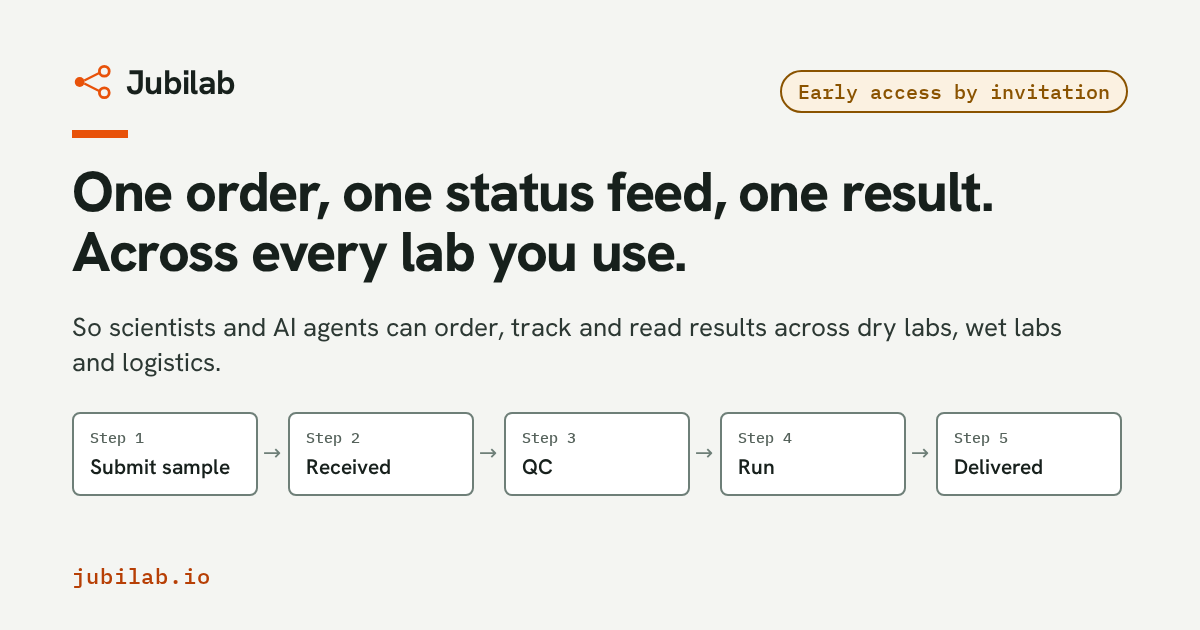
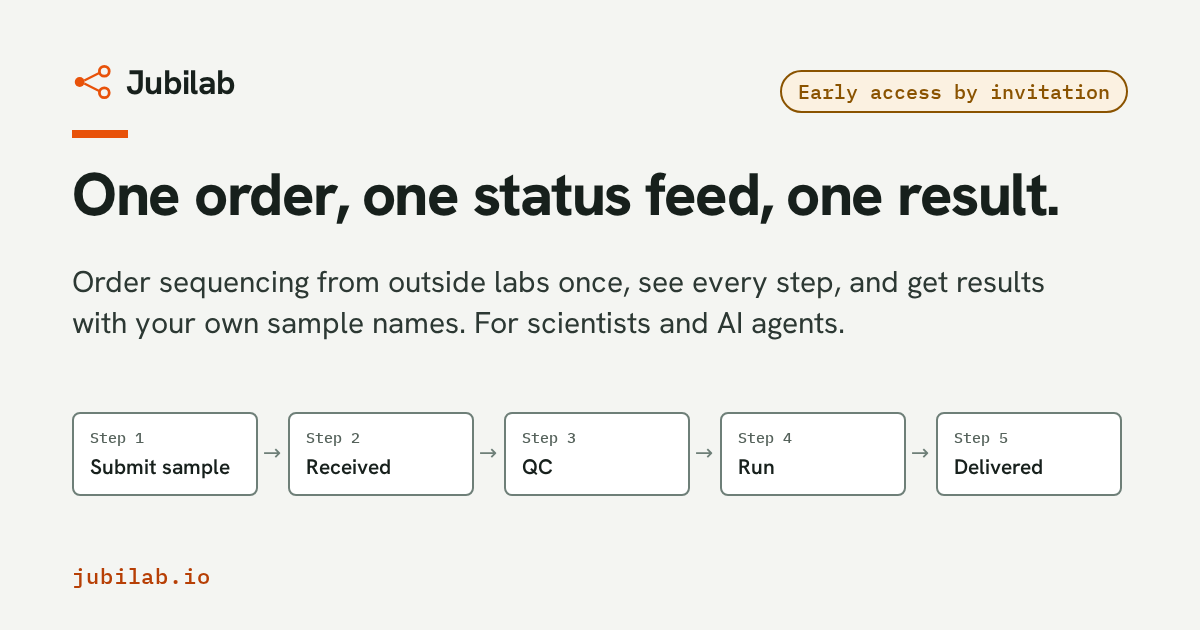
feat(site): plainer first screen, Billy BioTech line, investor link near the CTA, drop presumptuous lab sentence (T-048 round 2)

Changed region(s): [[0.0617, 0.2714, 0.8942, 0.6032]]

diff --git a/index.html b/index.html
@@ -5,23 +5,23 @@
 <meta charset="utf-8">
 <meta name="viewport" content="width=device-width, initial-scale=1">
 <title>Jubilab: one order, one status feed, one result</title>
-<meta name="description" content="Early access by invitation. One order, one status feed and one result across every lab you use, for scientists and AI agents. For UK research teams and labs.">
+<meta name="description" content="Early access by invitation. Order sequencing from outside labs once, see every step and get results with your own sample names. For UK research teams and labs.">
 <meta name="theme-color" content="#f4f5f2">
 <link rel="canonical" href="https://jubilab.io/">
 <meta property="og:type" content="website">
 <meta property="og:site_name" content="Jubilab">
 <meta property="og:title" content="Jubilab: one order, one status feed, one result">
-<meta property="og:description" content="Early access by invitation. One order, one status feed and one result across every lab you use, for scientists and AI agents. For UK research teams and labs.">
+<meta property="og:description" content="Early access by invitation. Order sequencing from outside labs once, see every step and get results with your own sample names. For UK research teams and labs.">
 <meta property="og:url" content="https://jubilab.io/">
 <meta property="og:image" content="https://jubilab.io/assets/og/jubilab-og.png">
 <meta property="og:image:width" content="1200">
 <meta property="og:image:height" content="630">
-<meta property="og:image:alt" content="Jubilab: one order, one status feed, one result across every lab you use. An order moves from sample submission through received, QC and run to delivered. Marked: early access by invitation, nothing released yet.">
+<meta property="og:image:alt" content="Jubilab: one order, one status feed, one result. An order moves from sample submission through received, QC and run to delivered. Marked: early access by invitation, nothing released yet.">
 <meta name="twitter:card" content="summary_large_image">
 <meta name="twitter:title" content="Jubilab: one order, one status feed, one result">
-<meta name="twitter:description" content="Early access by invitation. One order, one status feed and one result across every lab you use, for scientists and AI agents. For UK research teams and labs.">
+<meta name="twitter:description" content="Early access by invitation. Order sequencing from outside labs once, see every step and get results with your own sample names. For UK research teams and labs.">
 <meta name="twitter:image" content="https://jubilab.io/assets/og/jubilab-og.png">
-<meta name="twitter:image:alt" content="Jubilab: one order, one status feed, one result across every lab you use. An order moves from sample submission through received, QC and run to delivered. Marked: early access by invitation, nothing released yet.">
+<meta name="twitter:image:alt" content="Jubilab: one order, one status feed, one result. An order moves from sample submission through received, QC and run to delivered. Marked: early access by invitation, nothing released yet.">
 <link rel="icon" href="assets/favicon.svg" type="image/svg+xml">
 <link rel="preload" href="assets/fonts/hanken-grotesk-latin-wght-normal.woff2" as="font" type="font/woff2" crossorigin>
 <link rel="preload" href="assets/fonts/ibm-plex-mono-latin-400-normal.woff2" as="font" type="font/woff2" crossorigin>
@@ -106,13 +106,14 @@
 <section class="hero" aria-labelledby="h1">
   <div class="wrap hero-grid">
     <div class="hero-text">
-      <h1 id="h1">One order, one status feed, one result. Across every lab you use.</h1>
-      <p class="hero-sub">So scientists and AI agents can order, track and read results across dry labs, wet labs and logistics.</p>
-      <p class="hero-lede">For research teams and startups that send samples to outside labs, and the labs that receive them. Starting with genetics, UK first.</p>
+      <h1 id="h1">One order, one status feed, one result.</h1>
+      <p class="hero-sub">Order sequencing from outside labs once, see every step, and get results with your own sample names. For scientists and AI agents.</p>
+      <p class="hero-lede">For teams that send samples to outside labs, and the labs that run them. UK genetics first.</p>
       <div class="cta-row">
         <a class="btn" href="#access">Request early access</a>
       </div>
-      <p class="trust">We are accepting early adopters by invitation. Nothing is released yet.</p>
+      <p class="trust">We are accepting early adopters by invitation. Nothing is released yet. By Billy BioTech, the company behind Biligene.</p>
+      <p class="trust trust2">Investors? <a href="mailto:hello@jubilab.io">Email us</a>.</p>
     </div>
     <figure class="hero-shot journey-fig">
       <ol class="journey" aria-label="An example order, step by step">
@@ -150,7 +151,7 @@
   <div class="wrap">
     <ul class="cards cards2 usecase-cards">
       <li class="card"><div class="cb"><h3 class="ct">If you send samples out</h3><p class="cp">For research labs and spin-outs. One order form for every outside lab, one place to follow it, and clean results with your own sample names.</p></div></li>
-      <li class="card"><div class="cb"><h3 class="ct">If you run a lab or core</h3><p class="cp">Your clients still order from you. We aim for fewer wrong order sheets, and you update the status with a click instead of an email. You keep your own tools and your own relationship with your clients. We expect labs to say yes because orders arrive tidier and nothing changes in how they work.</p></div></li>
+      <li class="card"><div class="cb"><h3 class="ct">If you run a lab or core</h3><p class="cp">Your clients still order from you. We aim for fewer wrong order sheets, and you update the status with a click instead of an email. You keep your own tools and your own relationship with your clients.</p></div></li>
     </ul>
   </div>
 </section>
@@ -239,7 +240,7 @@
         <p class="goal"><strong>Our goal: one standard way to order lab work.</strong></p>
         <p>We are looking for early adopters, mainly UK biotech startups and university research groups, together with the wet labs that run their samples. We start with non-clinical genetics samples. We invite small groups first, so Jubilab is built around real orders.</p>
         <p>Tell us how you order today. Every question is required except the last one, a short free-text answer. The answers help us choose who to invite first.</p>
-        <p class="investors">Investors and partners, or prefer to talk first? Email <a href="mailto:hello@jubilab.io">hello@jubilab.io</a>.</p>
+        <p class="investors">Prefer to talk first? Email <a href="mailto:hello@jubilab.io">hello@jubilab.io</a>.</p>
         <p class="look"><a href="#how">Or look first: how it works &rarr;</a></p>
       </div>
       <form class="form" id="early-access-form" action="/api/early-access" method="post" aria-labelledby="h-access">
@@ -307,7 +308,7 @@
   <div class="wrap">
     <div>
       <p class="foot-brand">Jubilab</p>
-      <p>One order, one status feed, one result across every lab you use. We are accepting early adopters: request access and we invite small groups first. The product is still being built and nothing is released yet. Examples on this site are illustrative drafts.</p>
+      <p>One order, one status feed, one result. We are accepting early adopters: request access and we invite small groups first. The product is still being built and nothing is released yet. Examples on this site are illustrative drafts.</p>
       <p class="foot-co">A product of Billy BioTech Ltd. (<span lang="zh-Hant" class="cjk">比利生物科技有限公司</span>), Taipei</p>
       <p>Contact: <a href="mailto:hello@jubilab.io">hello@jubilab.io</a></p>
     </div>

diff --git a/assets/og/og-source.html b/assets/og/og-source.html
@@ -10,8 +10,8 @@ body{margin:0;width:1200px;height:630px;background:#f4f5f2;color:#17201c;font-fa
 .brand{position:absolute;left:72px;top:60px;display:flex;align-items:center;gap:14px;font-weight:700;font-size:34px;letter-spacing:-.02em}
 .brand svg{width:40px;height:40px}
 .bar{position:absolute;left:72px;top:130px;width:56px;height:8px;background:#e8520a}
-h1{position:absolute;left:72px;top:162px;margin:0;font-weight:800;font-size:56px;line-height:1.08;letter-spacing:-.025em;width:1000px}
-p{position:absolute;left:72px;top:310px;margin:0;font-size:26px;line-height:1.35;color:#2c3833;width:1000px}
+h1{position:absolute;left:72px;top:162px;margin:0;font-weight:800;font-size:60px;line-height:1.08;letter-spacing:-.025em;width:1080px;white-space:nowrap}
+p{position:absolute;left:72px;top:262px;margin:0;font-size:30px;line-height:1.35;color:#2c3833;width:1000px}
 .tag{position:absolute;right:72px;top:70px;font:500 20px "IBM Plex Mono",monospace;color:#8a5300;border:2px solid #8a5300;border-radius:999px;padding:6px 16px;background:#fbf1e1}
 .url{position:absolute;left:72px;bottom:40px;font:500 22px "IBM Plex Mono",monospace;color:#b73f05;letter-spacing:.04em}
 .row{position:absolute;left:72px;top:412px;display:flex;gap:30px}
@@ -22,8 +22,8 @@ p{position:absolute;left:72px;top:310px;margin:0;font-size:26px;line-height:1.35
 </style></head><body>
 <div class="brand"><svg viewBox="0 0 26 26"><circle cx="5" cy="13" r="3.2" fill="#e8520a"/><circle cx="21" cy="6" r="3.2" fill="none" stroke="#e8520a" stroke-width="1.8"/><circle cx="21" cy="20" r="3.2" fill="none" stroke="#e8520a" stroke-width="1.8"/><path d="M8 12 L18 7 M8 14 L18 19" stroke="#e8520a" stroke-width="1.5" fill="none"/></svg>Jubilab</div>
 <div class="bar"></div>
-<h1>One order, one status feed, one result. Across every lab you use.</h1>
-<p>So scientists and AI agents can order, track and read results across dry labs, wet labs and logistics.</p>
+<h1>One order, one status feed, one result.</h1>
+<p>Order sequencing from outside labs once, see every step, and get results with your own sample names. For scientists and AI agents.</p>
 <div class="tag">Early access by invitation</div>
 <div class="url">jubilab.io</div>
 <div class="row"><div class="st">Step 1<b>Submit sample</b></div><div class="st">Step 2<b>Received</b></div><div class="st">Step 3<b>QC</b></div><div class="st">Step 4<b>Run</b></div><div class="st">Step 5<b>Delivered</b></div></div>

diff --git a/404.html b/404.html
@@ -75,7 +75,7 @@
 <footer>
   <div class="wrap">
     <div>
-      <p>One order, one status feed, one result across every lab you use. We are accepting early adopters: request access and we invite small groups first. The product is still being built and nothing is released yet. Examples on this site are illustrative drafts.</p>
+      <p>One order, one status feed, one result. We are accepting early adopters: request access and we invite small groups first. The product is still being built and nothing is released yet. Examples on this site are illustrative drafts.</p>
       <p class="foot-co">A product of Billy BioTech Ltd. (<span lang="zh-Hant" class="cjk">比利生物科技有限公司</span>), Taipei</p>
       <!-- [placeholder] hello@jubilab.io is NOT set up yet. Create the mailbox or replace the address before launch (docs/launch-checklist.md). -->
       <p>Contact: <a href="mailto:hello@jubilab.io">hello@jubilab.io</a></p>

diff --git a/thanks/index.html b/thanks/index.html
@@ -78,7 +78,7 @@
 <footer>
   <div class="wrap">
     <div>
-      <p>One order, one status feed, one result across every lab you use. We are accepting early adopters: request access and we invite small groups first. The product is still being built and nothing is released yet. Examples on this site are illustrative drafts.</p>
+      <p>One order, one status feed, one result. We are accepting early adopters: request access and we invite small groups first. The product is still being built and nothing is released yet. Examples on this site are illustrative drafts.</p>
       <p class="foot-co">A product of Billy BioTech Ltd. (<span lang="zh-Hant" class="cjk">比利生物科技有限公司</span>), Taipei</p>
       <!-- [placeholder] hello@jubilab.io is NOT set up yet. Create the mailbox or replace the address before launch (docs/launch-checklist.md). -->
       <p>Contact: <a href="mailto:hello@jubilab.io">hello@jubilab.io</a></p>

diff --git a/blog/pin-your-containers-by-digest-not-by-tag/index.html b/blog/pin-your-containers-by-digest-not-by-tag/index.html
@@ -279,7 +279,7 @@ docker inspect python:3.12-slim --format &#x27;{{index .RepoDigests 0}}&#x27;</c
   <div class="wrap">
     <div>
       <p class="foot-brand">Jubilab</p>
-      <p>One order, one status feed, one result across every lab you use. We are accepting early adopters: request access and we invite small groups first. The product is still being built and nothing is released yet. Examples on this site are illustrative drafts.</p>
+      <p>One order, one status feed, one result. We are accepting early adopters: request access and we invite small groups first. The product is still being built and nothing is released yet. Examples on this site are illustrative drafts.</p>
       <p class="foot-co">A product of Billy BioTech Ltd. (<span lang="zh-Hant" class="cjk">比利生物科技有限公司</span>), Taipei</p>
       <p>Contact: <a href="mailto:hello@jubilab.io">hello@jubilab.io</a></p>
     </div>

diff --git a/blog/inherited-pipeline-first-week-checklist/index.html b/blog/inherited-pipeline-first-week-checklist/index.html
@@ -301,7 +301,7 @@ ALIGN	COMPLETED	/tmp/.../work/12/1eae96959500d83e943f31adae10dc</code></pre>
   <div class="wrap">
     <div>
       <p class="foot-brand">Jubilab</p>
-      <p>One order, one status feed, one result across every lab you use. We are accepting early adopters: request access and we invite small groups first. The product is still being built and nothing is released yet. Examples on this site are illustrative drafts.</p>
+      <p>One order, one status feed, one result. We are accepting early adopters: request access and we invite small groups first. The product is still being built and nothing is released yet. Examples on this site are illustrative drafts.</p>
       <p class="foot-co">A product of Billy BioTech Ltd. (<span lang="zh-Hant" class="cjk">比利生物科技有限公司</span>), Taipei</p>
       <p>Contact: <a href="mailto:hello@jubilab.io">hello@jubilab.io</a></p>
     </div>

diff --git a/guides/nextflow-provenance-and-lineage-compared/index.html b/guides/nextflow-provenance-and-lineage-compared/index.html
@@ -221,7 +221,7 @@ nextflow lineage check lid://&lt;id&gt;</code></pre>
   <div class="wrap">
     <div>
       <p class="foot-brand">Jubilab</p>
-      <p>One order, one status feed, one result across every lab you use. We are accepting early adopters: request access and we invite small groups first. The product is still being built and nothing is released yet. Examples on this site are illustrative drafts.</p>
+      <p>One order, one status feed, one result. We are accepting early adopters: request access and we invite small groups first. The product is still being built and nothing is released yet. Examples on this site are illustrative drafts.</p>
       <p class="foot-co">A product of Billy BioTech Ltd. (<span lang="zh-Hant" class="cjk">比利生物科技有限公司</span>), Taipei</p>
       <p>Contact: <a href="mailto:hello@jubilab.io">hello@jubilab.io</a></p>
     </div>

diff --git a/guides/reference-genome-build-vcf-bam/index.html b/guides/reference-genome-build-vcf-bam/index.html
@@ -255,7 +255,7 @@ faidx_fetch_seq failed at chr1:1</code></pre>
   <div class="wrap">
     <div>
       <p class="foot-brand">Jubilab</p>
-      <p>One order, one status feed, one result across every lab you use. We are accepting early adopters: request access and we invite small groups first. The product is still being built and nothing is released yet. Examples on this site are illustrative drafts.</p>
+      <p>One order, one status feed, one result. We are accepting early adopters: request access and we invite small groups first. The product is still being built and nothing is released yet. Examples on this site are illustrative drafts.</p>
       <p class="foot-co">A product of Billy BioTech Ltd. (<span lang="zh-Hant" class="cjk">比利生物科技有限公司</span>), Taipei</p>
       <p>Contact: <a href="mailto:hello@jubilab.io">hello@jubilab.io</a></p>
     </div>

diff --git a/guides/what-parameters-produced-this-result/index.html b/guides/what-parameters-produced-this-result/index.html
@@ -247,7 +247,7 @@ export HISTTIMEFORMAT='%F %T '</code></pre>
   <div class="wrap">
     <div>
       <p class="foot-brand">Jubilab</p>
-      <p>One order, one status feed, one result across every lab you use. We are accepting early adopters: request access and we invite small groups first. The product is still being built and nothing is released yet. Examples on this site are illustrative drafts.</p>
+      <p>One order, one status feed, one result. We are accepting early adopters: request access and we invite small groups first. The product is still being built and nothing is released yet. Examples on this site are illustrative drafts.</p>
       <p class="foot-co">A product of Billy BioTech Ltd. (<span lang="zh-Hant" class="cjk">比利生物科技有限公司</span>), Taipei</p>
       <p>Contact: <a href="mailto:hello@jubilab.io">hello@jubilab.io</a></p>
     </div>

diff --git a/blog/why-did-my-task-run-again-nextflow-snakemake/index.html b/blog/why-did-my-task-run-again-nextflow-snakemake/index.html
@@ -260,7 +260,7 @@ snakemake -c1 -n count.txt</code></pre>
   <div class="wrap">
     <div>
       <p class="foot-brand">Jubilab</p>
-      <p>One order, one status feed, one result across every lab you use. We are accepting early adopters: request access and we invite small groups first. The product is still being built and nothing is released yet. Examples on this site are illustrative drafts.</p>
+      <p>One order, one status feed, one result. We are accepting early adopters: request access and we invite small groups first. The product is still being built and nothing is released yet. Examples on this site are illustrative drafts.</p>
       <p class="foot-co">A product of Billy BioTech Ltd. (<span lang="zh-Hant" class="cjk">比利生物科技有限公司</span>), Taipei</p>
       <p>Contact: <a href="mailto:hello@jubilab.io">hello@jubilab.io</a></p>
     </div>

diff --git a/blog/how-to-compare-two-pipeline-runs/index.html b/blog/how-to-compare-two-pipeline-runs/index.html
@@ -256,7 +256,7 @@ nf-diff: comparison complete
   <div class="wrap">
     <div>
       <p class="foot-brand">Jubilab</p>
-      <p>One order, one status feed, one result across every lab you use. We are accepting early adopters: request access and we invite small groups first. The product is still being built and nothing is released yet. Examples on this site are illustrative drafts.</p>
+      <p>One order, one status feed, one result. We are accepting early adopters: request access and we invite small groups first. The product is still being built and nothing is released yet. Examples on this site are illustrative drafts.</p>
       <p class="foot-co">A product of Billy BioTech Ltd. (<span lang="zh-Hant" class="cjk">比利生物科技有限公司</span>), Taipei</p>
       <p>Contact: <a href="mailto:hello@jubilab.io">hello@jubilab.io</a></p>
     </div>

diff --git a/blog/same-fastqs-different-variants/index.html b/blog/same-fastqs-different-variants/index.html
@@ -277,7 +277,7 @@ chr1	300	G	A	10</code></pre>
   <div class="wrap">
     <div>
       <p class="foot-brand">Jubilab</p>
-      <p>One order, one status feed, one result across every lab you use. We are accepting early adopters: request access and we invite small groups first. The product is still being built and nothing is released yet. Examples on this site are illustrative drafts.</p>
+      <p>One order, one status feed, one result. We are accepting early adopters: request access and we invite small groups first. The product is still being built and nothing is released yet. Examples on this site are illustrative drafts.</p>
       <p class="foot-co">A product of Billy BioTech Ltd. (<span lang="zh-Hant" class="cjk">比利生物科技有限公司</span>), Taipei</p>
       <p>Contact: <a href="mailto:hello@jubilab.io">hello@jubilab.io</a></p>
     </div>
